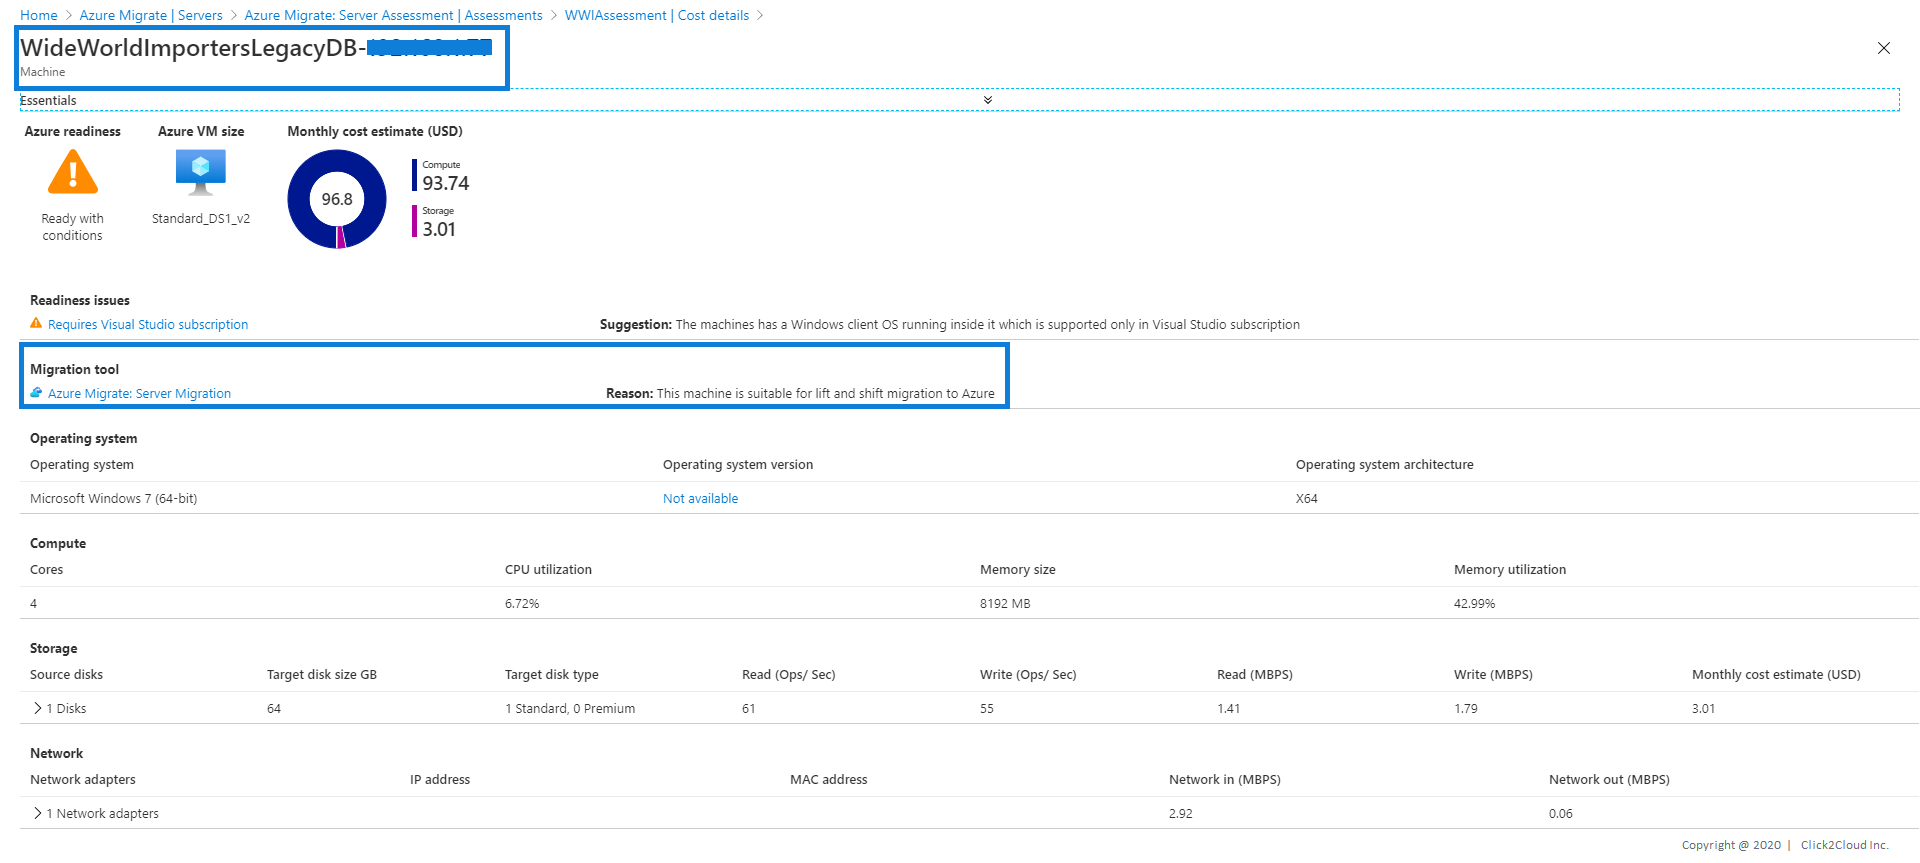
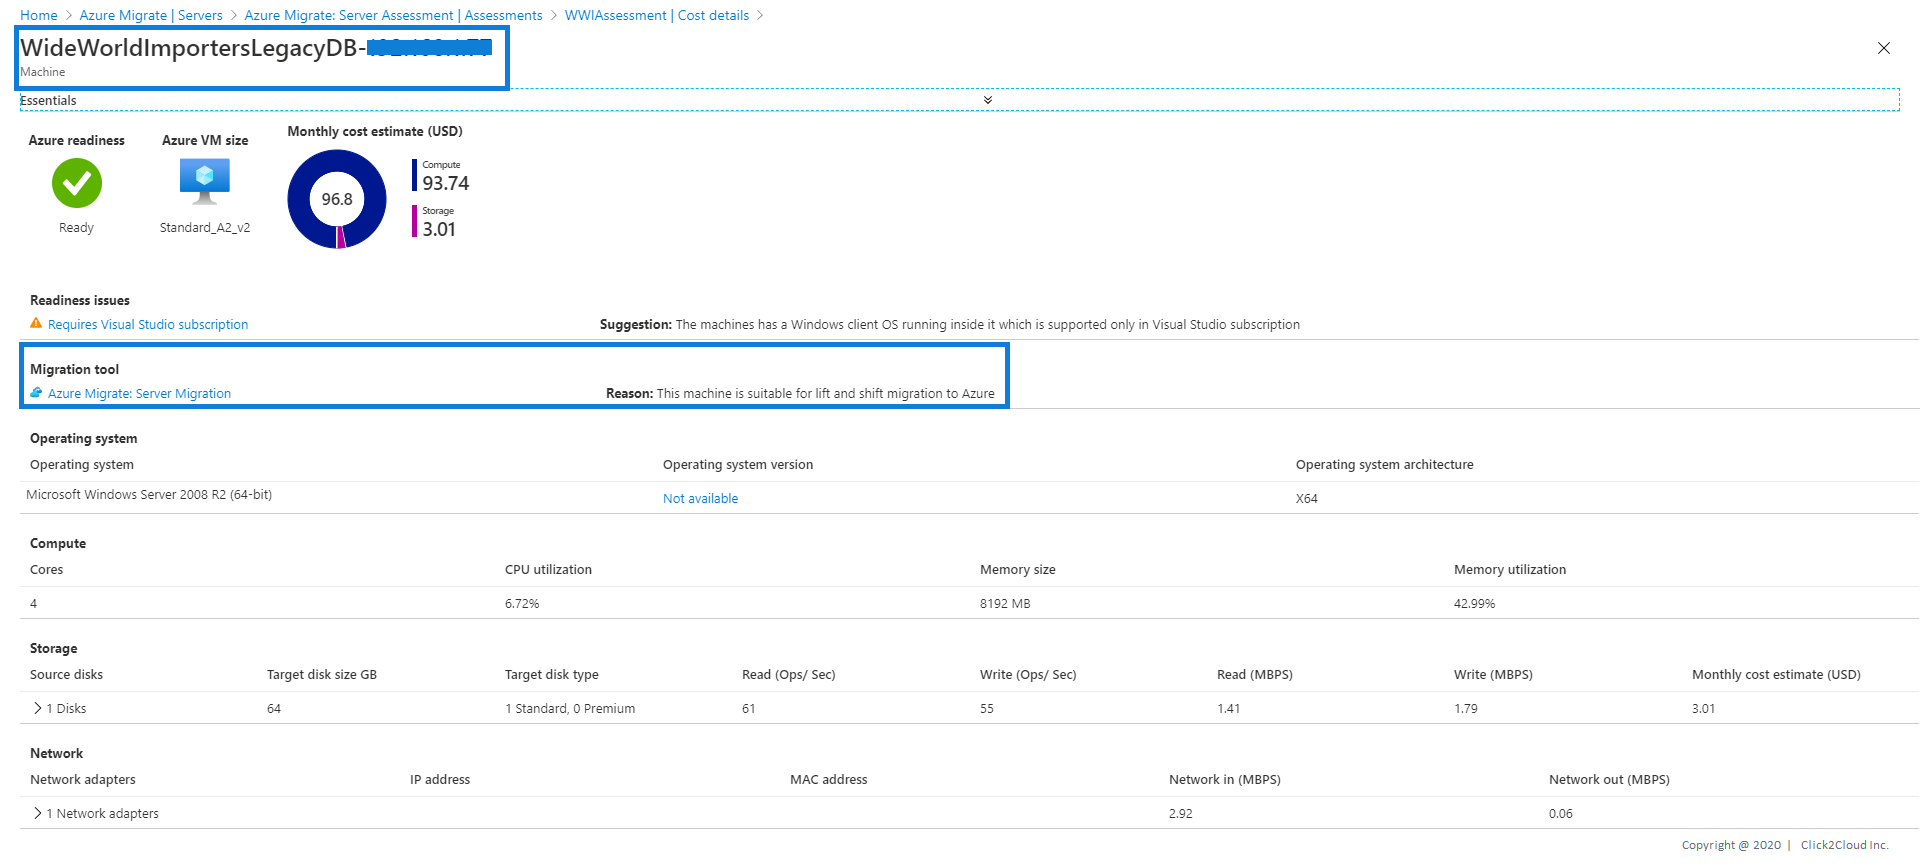
Changes for legacy database assessment

Changed region(s): [[0.0, 0.1506, 0.125, 0.2711], [0.0, 0.5724, 0.125, 0.6025]]

diff --git a/prerequisites/os/windows2008R2-template-creation.md b/prerequisites/os/windows2008R2-template-creation.md
@@ -1,6 +1,6 @@
 # Steps for Windows Server 2008 R2 Template Creation
 
-1. Download Windows Server 2008 R2 ISO from [here](https://software-download.microsoft.com/download/pr/Windows_Server_2016_Datacenter_EVAL_en-us_14393_refresh.ISO)
+1. Download Windows Server 2008 R2 ISO from [here](https://www.microsoft.com/en-in/download/confirmation.aspx?id=11093)
 
 2. Upload it to your VMware vCenter.
 
